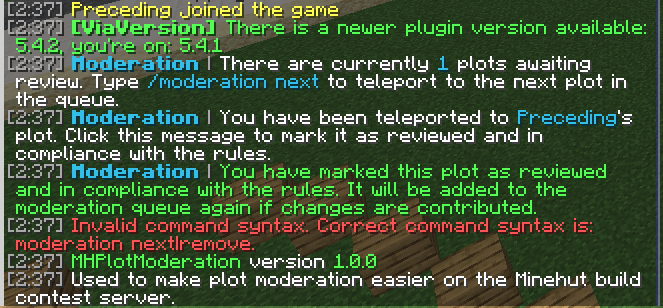
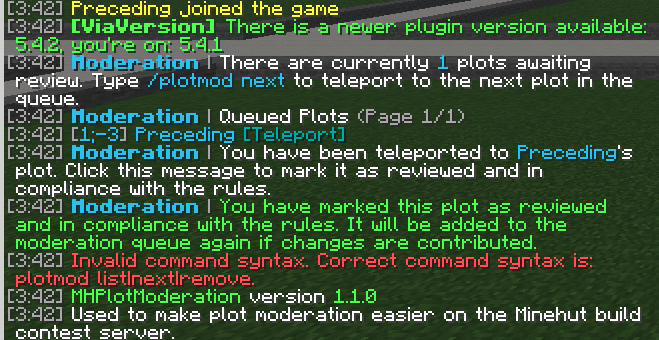
chore: changed command to /plotmod & added /plotmod list

diff --git a/src/main/java/com/minehut/moderators/plotmoderation/command/ModerationCommand.java b/src/main/java/com/minehut/moderators/plotmoderation/command/ModerationCommand.java
@@ -2,22 +2,26 @@ package com.minehut.moderators.plotmoderation.command;
 
 import com.minehut.moderators.plotmoderation.PlotModeration;
 import com.minehut.moderators.plotmoderation.flag.UnreviewedChangesFlag;
-import com.minehut.moderators.plotmoderation.utils.CC;
+import com.minehut.moderators.plotmoderation.utils.pagination.Paginator;
+import com.minehut.moderators.plotmoderation.utils.text.CC;
 import com.plotsquared.bukkit.util.BukkitUtil;
 import com.plotsquared.core.PlotSquared;
 import com.plotsquared.core.plot.Plot;
 import com.plotsquared.core.util.query.PlotQuery;
+import com.plotsquared.core.uuid.UUIDMapping;
 import net.kyori.adventure.text.event.ClickEvent;
 import net.kyori.adventure.text.event.HoverEvent;
 import org.bukkit.command.CommandSender;
 import org.bukkit.entity.Player;
+import org.incendo.cloud.annotations.Argument;
 import org.incendo.cloud.annotations.Command;
 import org.incendo.cloud.annotations.CommandDescription;
 import org.incendo.cloud.annotations.Permission;
 
-import java.util.Objects;
+import java.util.*;
+import java.util.stream.Collectors;
 
-@Command("moderation")
+@Command("plotmod")
 @Permission(PlotModeration.MODERATOR_PERMISSION)
 @CommandDescription("Manage the plot moderation queue")
 public class ModerationCommand {
@@ -33,7 +37,7 @@ public class ModerationCommand {
         final Plot nextPlot = PlotQuery.newQuery().allPlots().asList()
                 .stream()
                 .filter((plot) -> plot.getFlag(UnreviewedChangesFlag.class) && plot.getOwner() != null)
-                .min((o1, o2) -> Long.compare(o2.getTimestamp(), o1.getTimestamp()))
+                .min(Comparator.comparingLong(Plot::getTimestamp))
                 .orElse(null);
 
         if (nextPlot == null) {
@@ -45,7 +49,7 @@ public class ModerationCommand {
             player.teleport(BukkitUtil.adapt(location));
             player.sendMessage(CC.component("<prefix><white>You have been teleported to <mh_blue>" + username + "</mh_blue>'s plot. Click this message to mark it as reviewed and in compliance with the rules.</white>")
                     .hoverEvent(HoverEvent.showText(CC.component("<gray>Click to mark this plot as reviewed and in compliance with the rules.</gray>")))
-                    .clickEvent(ClickEvent.runCommand("/moderation remove"))
+                    .clickEvent(ClickEvent.runCommand("/plotmod remove"))
             );
         }));
     }
@@ -72,6 +76,55 @@ public class ModerationCommand {
 
         plot.setFlag(UnreviewedChangesFlag.class, "false");
         player.sendMessage(CC.component("<prefix><green>You have marked this plot as reviewed and in compliance with the rules. It will be added to the moderation queue again if changes are contributed.</green>"));
+    }
+
+    @Command("list [page]")
+    @CommandDescription("View a list of all plots in the moderation queue")
+    @SuppressWarnings("DataFlowIssue")
+    public void list(CommandSender sender, @Argument("page") Integer rawPage) {
+        final int page = rawPage == null ? 1 : rawPage;
+        final List<Plot> plots = PlotQuery.newQuery().allPlots().asList()
+                .stream()
+                .filter((plot) -> plot.getFlag(UnreviewedChangesFlag.class) && plot.getOwner() != null)
+                .sorted(Comparator.comparingLong(Plot::getTimestamp))
+                .toList();
+        final Paginator<Plot> plotPaginator = new Paginator<>(9);
+        final Paginator.PaginatedResult<Plot> paginatedResult = plotPaginator.paginate(plots, page);
+
+        if (paginatedResult.totalPages() == 0) {
+            sender.sendMessage(CC.component("<prefix><red>There are currently no plots marked for moderator review.</red>"));
+            return;
+        }
+
+        if (page < 1 || page > paginatedResult.totalPages()) {
+            sender.sendMessage(CC.component("<prefix><red>Invalid page index (1 - " + paginatedResult.totalPages() + ")"));
+            return;
+        }
+
+        PlotSquared.get().getImpromptuUUIDPipeline().getNames(plots.stream()
+                .filter(Plot::hasOwner)
+                .map(Plot::getOwner)
+                .distinct()
+                .toList()
+        ).thenAccept((mappings) -> {
+            final Map<UUID, UUIDMapping> uuidMappings = mappings.stream()
+                    .collect(Collectors.toMap(UUIDMapping::uuid, (mapping) -> mapping));
+
+            sender.sendMessage(CC.component("<prefix><white>Queued Plots <gray>(Page " + page + "/" + paginatedResult.totalPages() + ")</white>"));
+
+            for (final Plot plot : paginatedResult.items()) {
+                final UUID ownerId = plot.getOwner();
+                final UUIDMapping ownerMapping = uuidMappings.getOrDefault(ownerId, null);
+                final String ownerUsername = ownerMapping == null ? "N/A" : ownerMapping.username();
+
+                sender.sendMessage(CC.component("<gray>[<mh_blue>" + plot.getId().getX() + ";" + plot.getId().getY() + "</mh_blue>]</gray> <mh_blue>" + ownerUsername + "</mh_blue> ")
+                        .append(CC.component("<dark_aqua>[Teleport]</dark_aqua>")
+                                .hoverEvent(HoverEvent.showText(CC.component("<gray>Click here to teleport to this plot.</gray>")))
+                                .clickEvent(ClickEvent.runCommand("/plot visit " + plot.getId().getX() + ";" + plot.getId().getY()))
+                        )
+                );
+            }
+        });
     }
 
 }

diff --git a/src/main/java/com/minehut/moderators/plotmoderation/listener/ModerationListener.java b/src/main/java/com/minehut/moderators/plotmoderation/listener/ModerationListener.java
@@ -2,7 +2,7 @@ package com.minehut.moderators.plotmoderation.listener;
 
 import com.minehut.moderators.plotmoderation.PlotModeration;
 import com.minehut.moderators.plotmoderation.flag.UnreviewedChangesFlag;
-import com.minehut.moderators.plotmoderation.utils.CC;
+import com.minehut.moderators.plotmoderation.utils.text.CC;
 import com.plotsquared.bukkit.util.BukkitUtil;
 import com.plotsquared.core.location.Location;
 import com.plotsquared.core.plot.Plot;
@@ -28,7 +28,7 @@ public class ModerationListener implements Listener {
                     .count();
 
             if(totalUnreviewedPlots > 0) {
-                Bukkit.getServer().getScheduler().runTaskLater(PlotModeration.getInstance(), () -> player.sendMessage(CC.component("<prefix><white>There are currently <mh_blue>" + totalUnreviewedPlots + "</mh_blue> plots awaiting review. Type <mh_blue>/moderation next</mh_blue> to teleport to the next plot in the queue.</white>")), 20L);
+                Bukkit.getServer().getScheduler().runTaskLater(PlotModeration.getInstance(), () -> player.sendMessage(CC.component("<prefix><white>There are currently <mh_blue>" + totalUnreviewedPlots + "</mh_blue> plots awaiting review. Type <mh_blue>/plotmod next</mh_blue> to teleport to the next plot in the queue.</white>")), 20L);
             }
         }
     }

diff --git a/src/main/java/com/minehut/moderators/plotmoderation/utils/pagination/Paginator.java b/src/main/java/com/minehut/moderators/plotmoderation/utils/pagination/Paginator.java
@@ -1,0 +1,32 @@
+package com.minehut.moderators.plotmoderation.utils.pagination;
+
+import java.util.Collections;
+import java.util.List;
+
+public class Paginator<T> {
+
+    private final int entriesPerPage;
+
+    public Paginator(int entriesPerPage) {
+        this.entriesPerPage = entriesPerPage;
+    }
+
+    public PaginatedResult<T> paginate(List<T> entries, int page) {
+        if (page < 1 || entries.isEmpty()) {
+            return new PaginatedResult<>(Collections.emptyList(), 0);
+        }
+
+        final int totalPages = Math.max((int) Math.ceil((double) entries.size() / entriesPerPage), 1);
+        final int startIndex = (page - 1) * entriesPerPage;
+
+        final int fromIndex = Math.min(startIndex, entries.size());
+        final int toIndex = Math.min(startIndex + entriesPerPage, entries.size());
+
+        return new PaginatedResult<>(entries.subList(fromIndex, toIndex), totalPages);
+    }
+
+    public record PaginatedResult<T>(List<T> items, int totalPages) {
+
+    }
+
+}

diff --git a/src/main/java/com/minehut/moderators/plotmoderation/utils/text/CC.java b/src/main/java/com/minehut/moderators/plotmoderation/utils/text/CC.java
@@ -1,4 +1,4 @@
-package com.minehut.moderators.plotmoderation.utils;
+package com.minehut.moderators.plotmoderation.utils.text;
 
 import lombok.experimental.UtilityClass;
 import net.kyori.adventure.text.Component;

diff --git a/README.md b/README.md
@@ -3,11 +3,11 @@
 This plugin was created to assist in moderation with plots on Minehut's build contest server. I've decided to open source it as I thought that it may be of use to some who run plot servers. It depends on [PlotSquared](https://www.spigotmc.org/resources/plotsquared-v7.77506/). 
 
 ## Commands:
-- `/moderation next` Teleports you to the next plot in the moderation queue.
-- `/moderation remove` Removes the plot that you're standing in from the moderation queue.
+- `/plotmod next` Teleports you to the next plot in the moderation queue.
+- `/plotmod remove` Removes the plot that you're standing in from the moderation queue.
 
 # Permissions
-- `mhplots.mod` Allows users with this permission to use `/moderation` and get notified about new plots in the queue when joining the server.
+- `mhplots.mod` Allows users with this permission to use `/plotmod` and get notified about new plots in the queue when joining the server.
 
 # Screenshots
 ![img.png](images/img.png)
